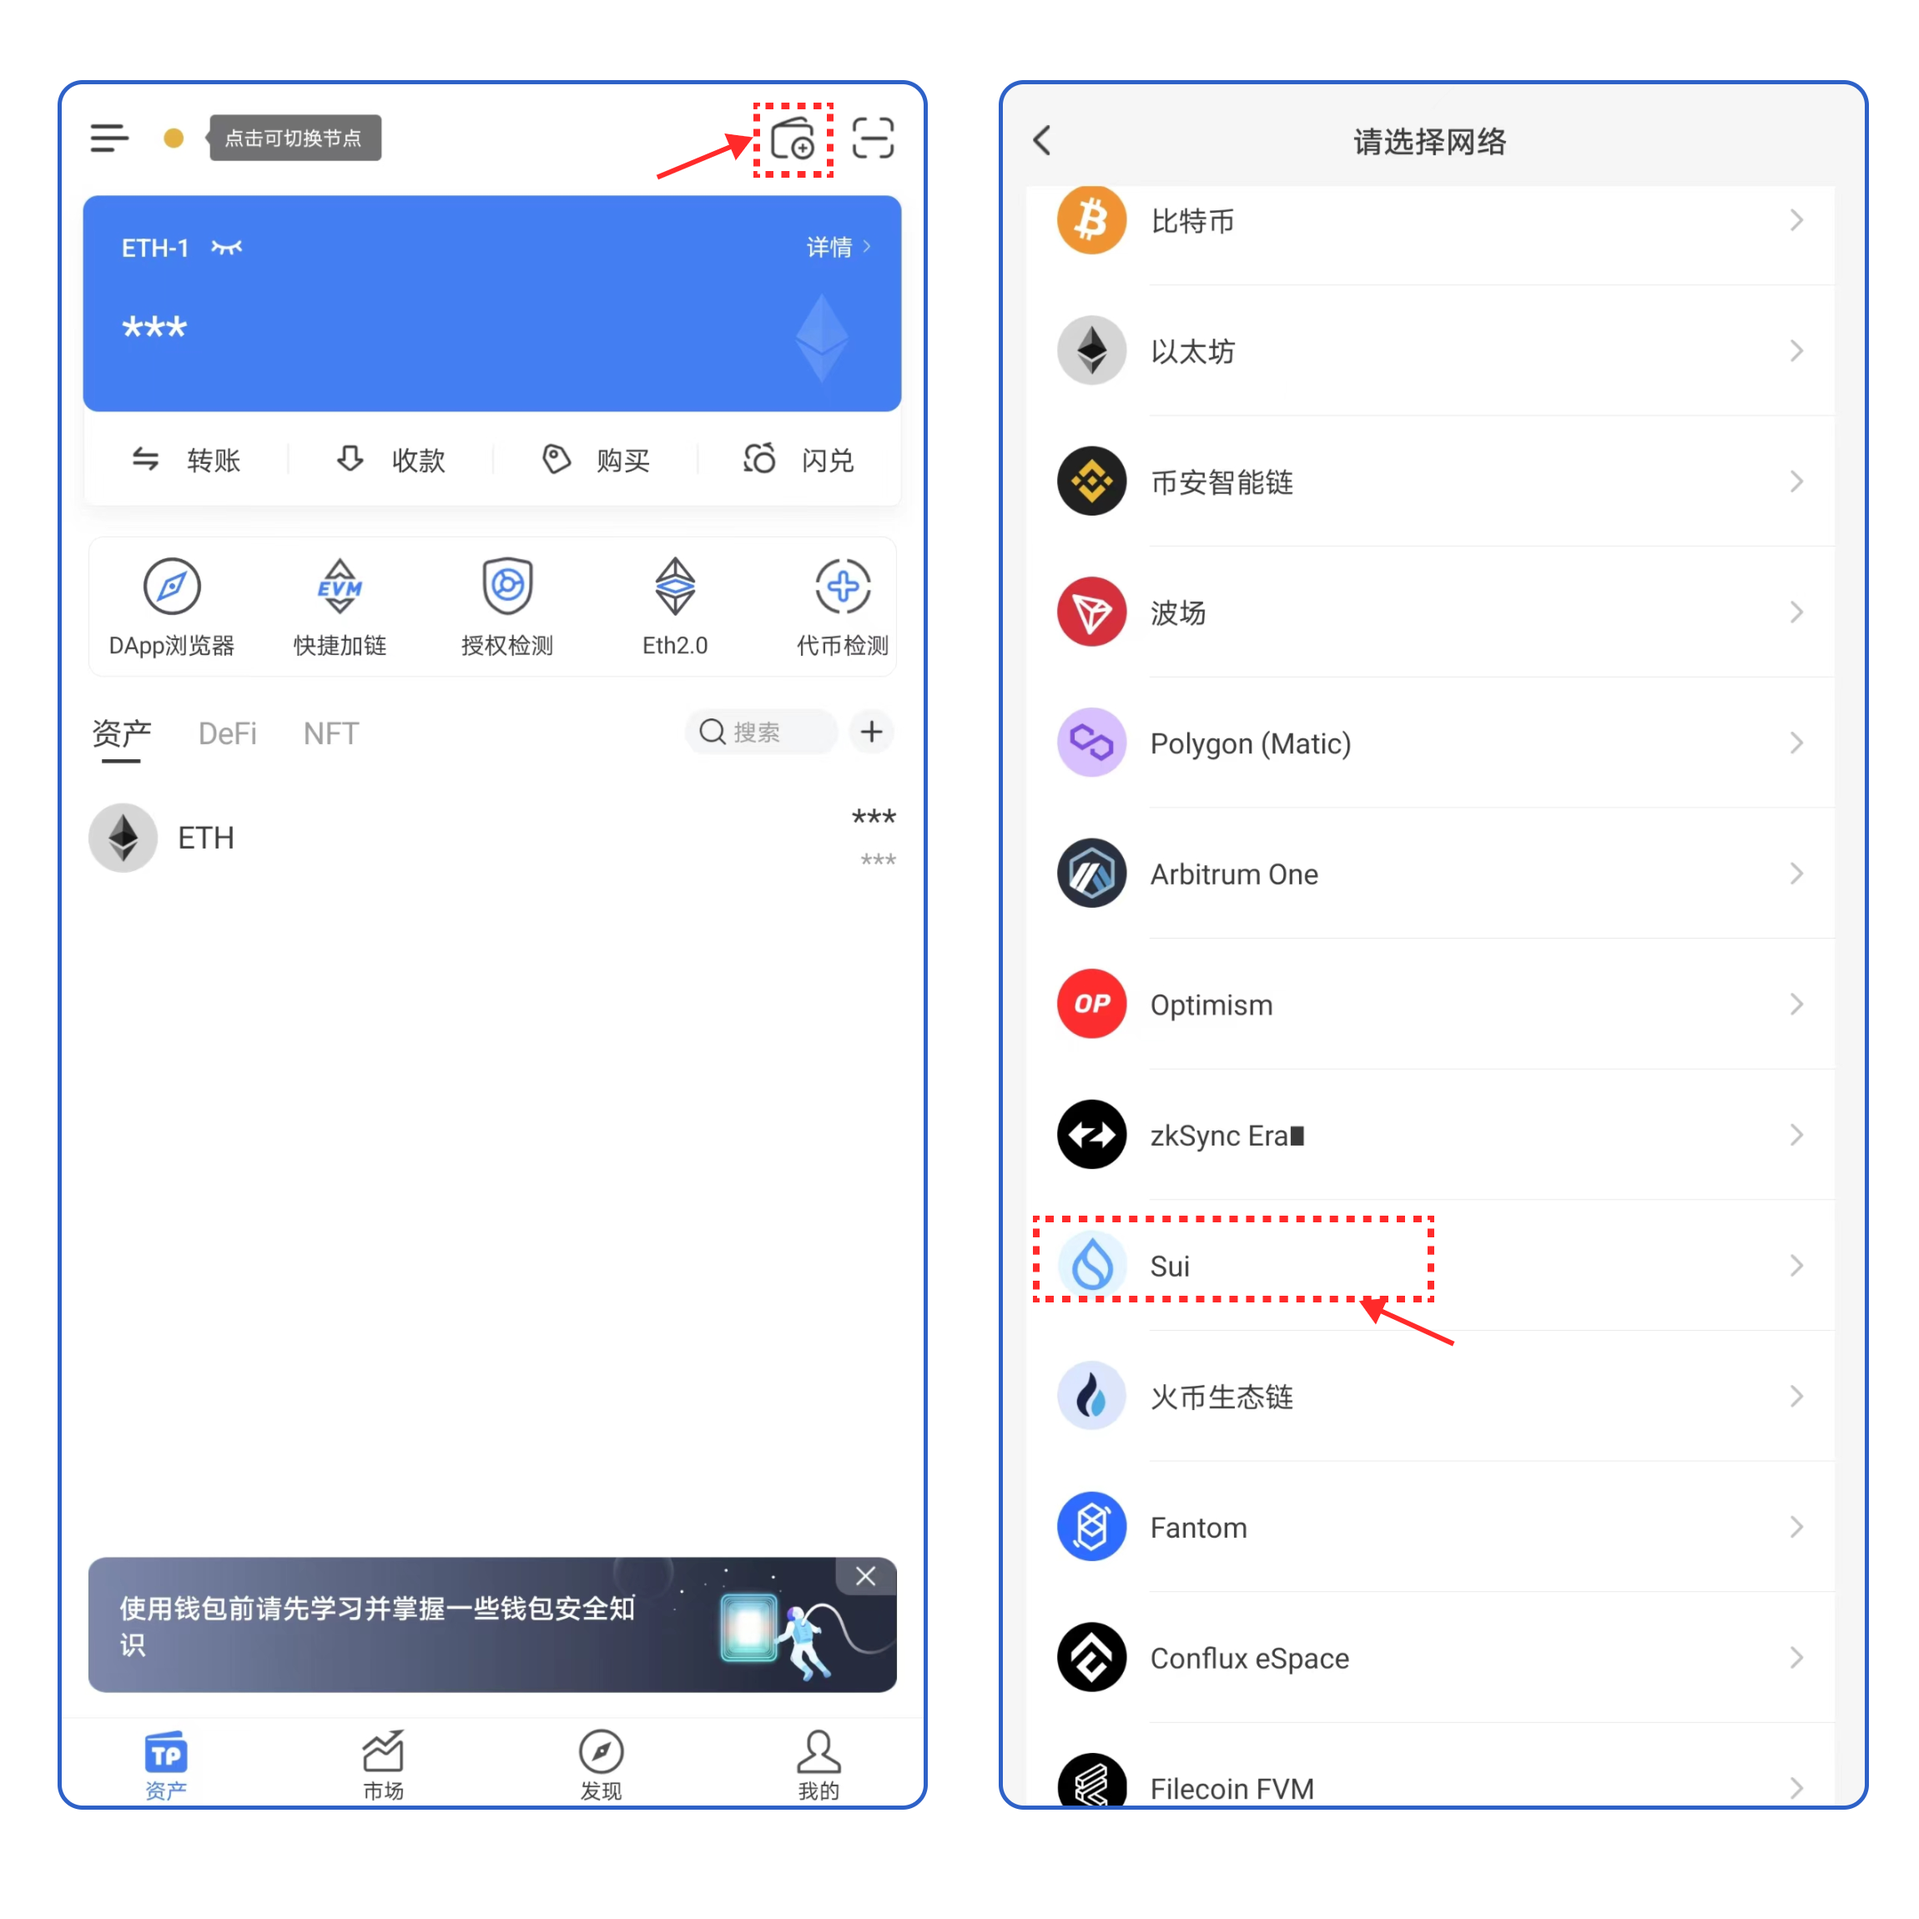
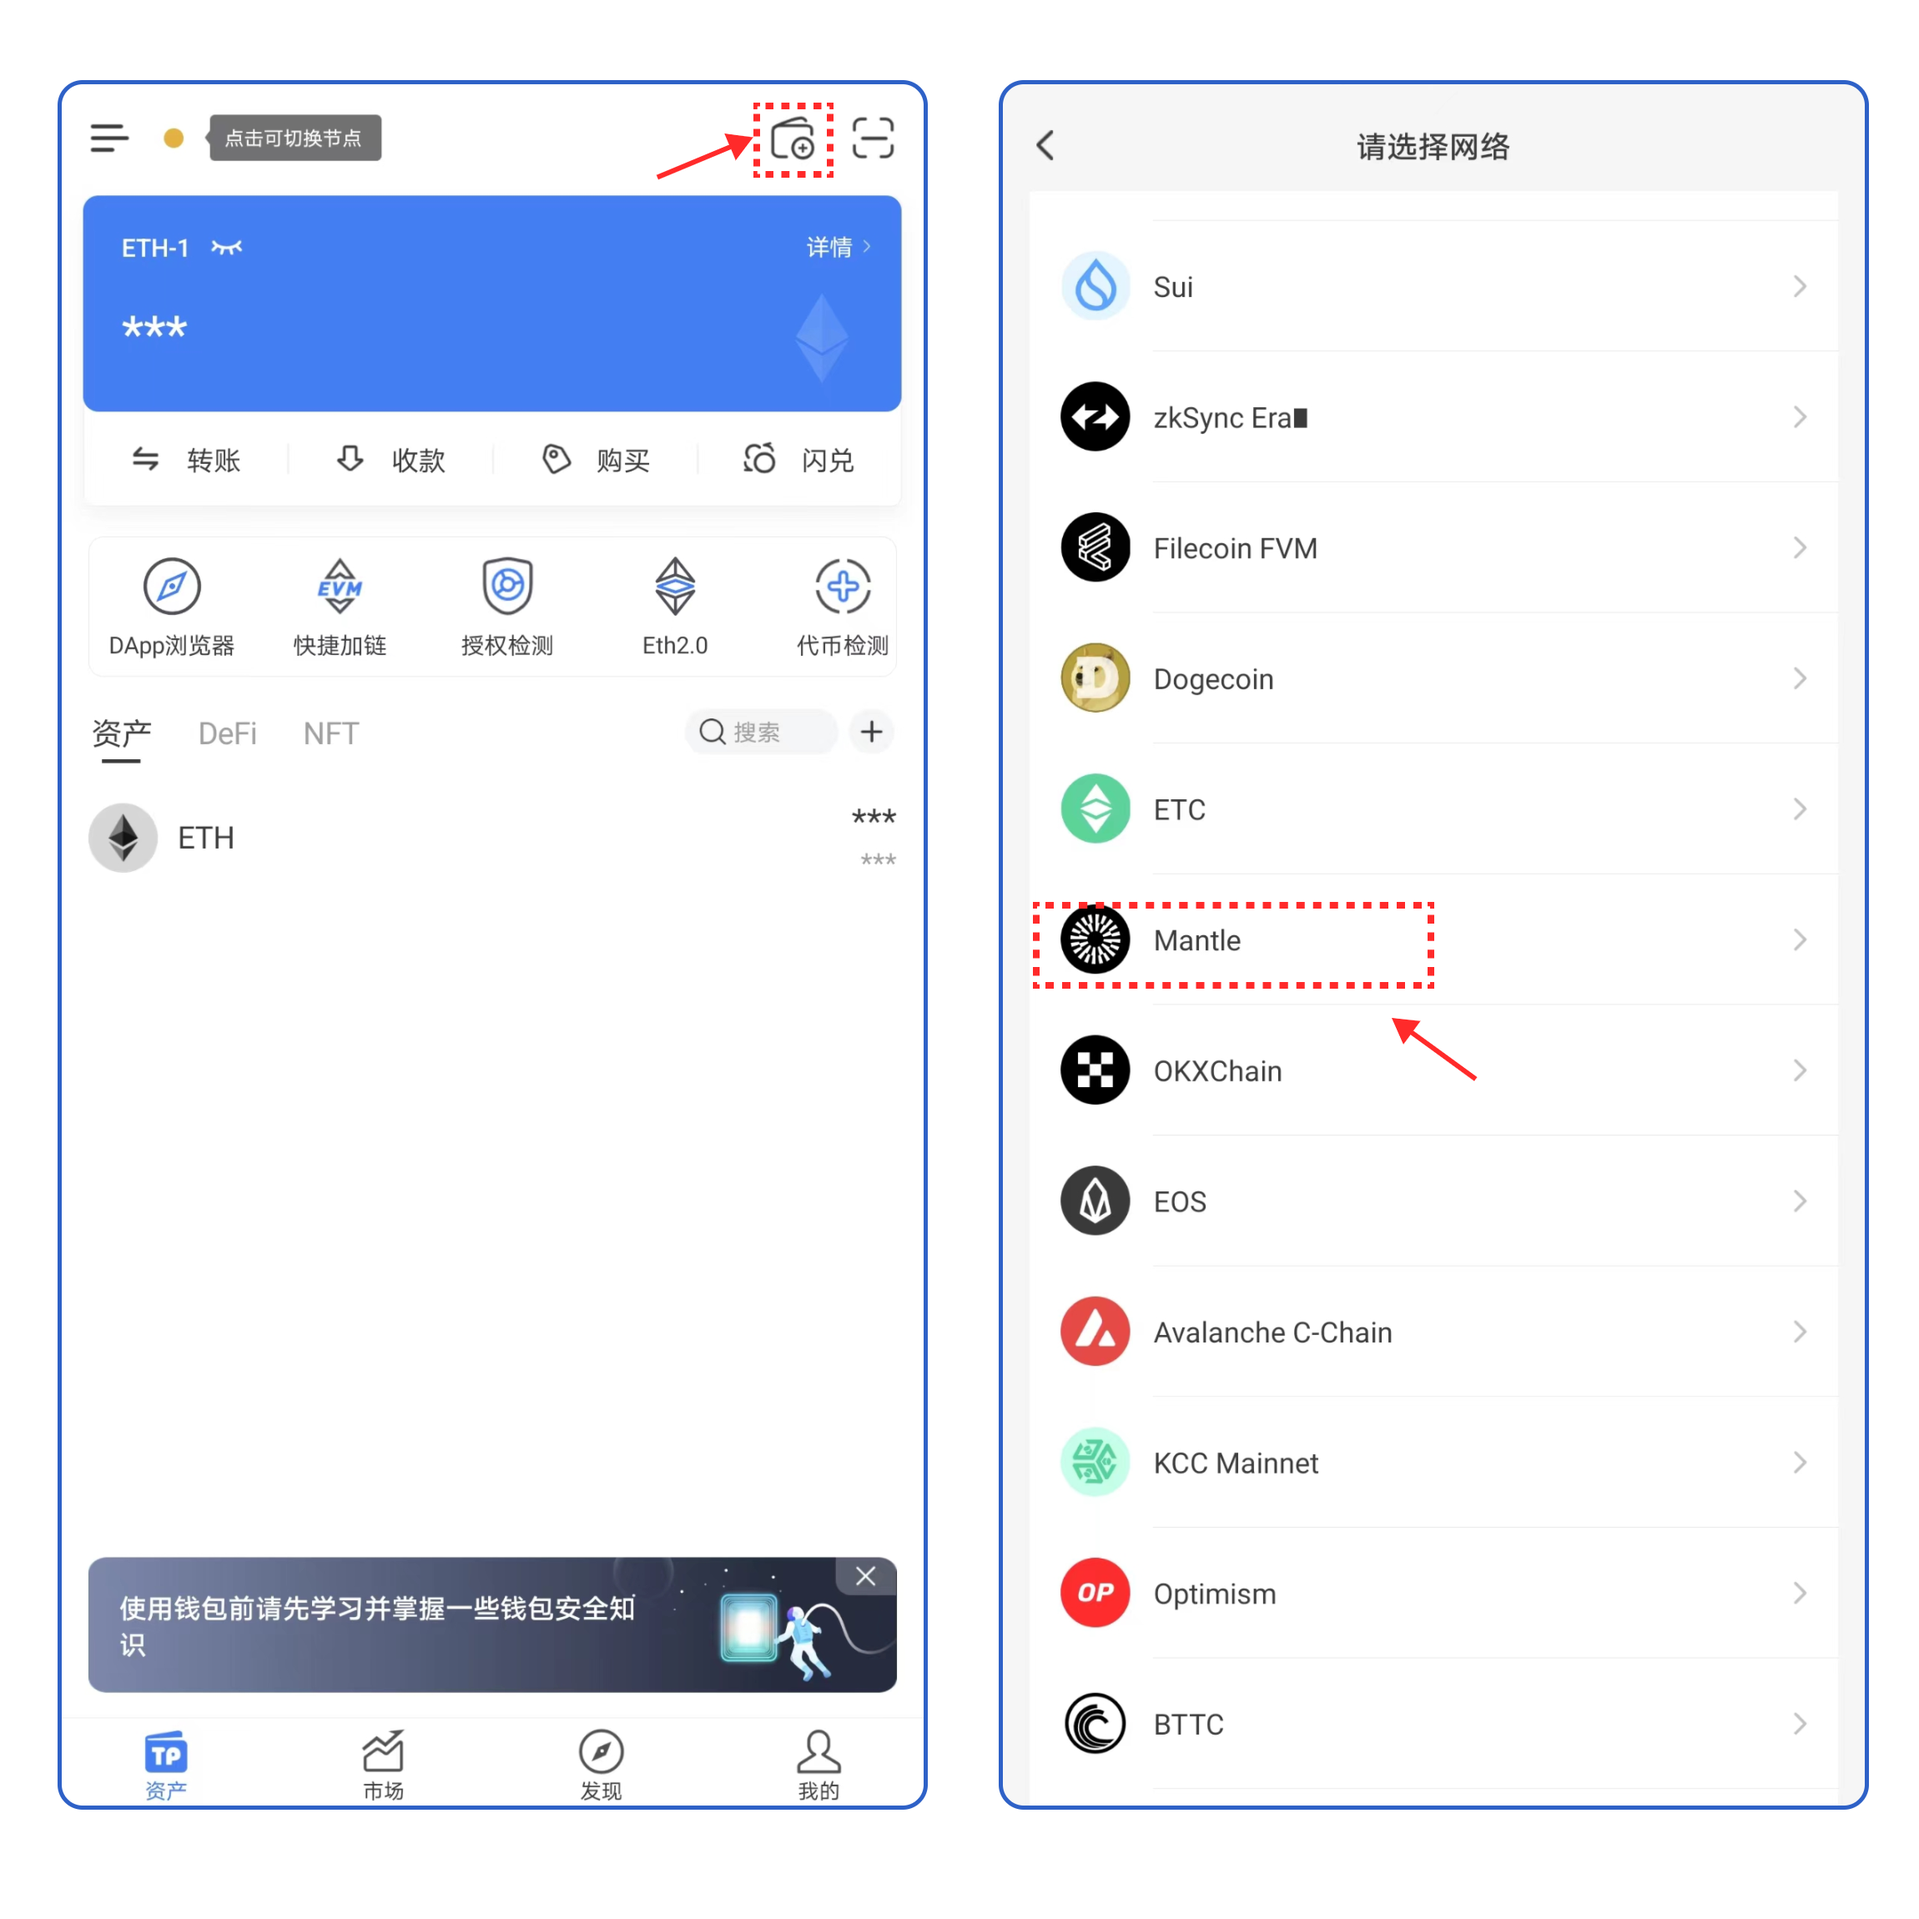
GITBOOK-1342: change request with no subject merged in GitBook

diff --git a/wallet-operation/create-wallet-tutorial/mantle.md b/wallet-operation/create-wallet-tutorial/mantle.md
@@ -1,0 +1,41 @@
+# TokenPocket带您一文玩转Mantle
+
+### <mark style="color:orange;">如何在TokenPocket上创建Mantle钱包？</mark>
+
+1、打开TokenPocket APP，点击右上角![](<../../.gitbook/assets/image (5) (3).png>)，然后选择**Mantle;**
+
+<figure><img src="../../.gitbook/assets/dogecn1.png" alt=""><figcaption></figcaption></figure>
+
+2、点击**【创建钱包】**；继续点击**【创建钱包】**;
+
+<figure><img src="../../.gitbook/assets/组 109.png" alt=""><figcaption></figcaption></figure>
+
+3、依次设置**【钱包名称】**和**【密码】**，然后勾选**【用户协议】**，点击**【创建钱包】**；请认真观看学习视频内容，点击**【我知道了】**；
+
+<figure><img src="../../.gitbook/assets/dogecn3.png" alt=""><figcaption></figcaption></figure>
+
+4、确认了解并勾选选项内容，点击**【下一步】,**然后开始备份助记词，点击**【备份完成，进行验证】**；
+
+<figure><img src="../../.gitbook/assets/image (9).png" alt=""><figcaption></figcaption></figure>
+
+5、按顺序填入备份好的钱包助记词，点击**【确认】**,至此，您已成功创建**Mantle**钱包。
+
+<mark style="color:red;">**注意：请勿将助记词和私钥透露给任何人！**</mark>
+
+<figure><img src="../../.gitbook/assets/dogecn5 (1).png" alt=""><figcaption></figcaption></figure>
+
+### <mark style="color:orange;">**如何在TokenPocket导入Mantle钱包？**</mark>
+
+1、打开TokenPocket App，点击右上角![](<../../.gitbook/assets/image (3).png>)，然后选择**Mantle**;
+
+<figure><img src="../../.gitbook/assets/dogecn1 2.png" alt=""><figcaption></figcaption></figure>
+
+2、点击**【添加钱包】**；点击**【导入钱包】，**选择导入方式；
+
+<figure><img src="../../.gitbook/assets/组 110.png" alt=""><figcaption></figcaption></figure>
+
+3、以助记词导入为例，输入备份的**【助记词】**及**【钱包名称】**、**【密码】**，勾选**【服务及隐私条款】**；点击**【导入钱包】**；至此，你已经成功导入**Mantle**钱包。
+
+<mark style="color:red;">**注意：请勿将助记词和私钥透露给任何人！**</mark>
+
+<figure><img src="../../.gitbook/assets/组 51.png" alt=""><figcaption></figcaption></figure>

diff --git a/wallet-operation/create-wallet-tutorial/sui.md b/wallet-operation/create-wallet-tutorial/sui.md
@@ -4,7 +4,7 @@
 
 1、打开TokenPocket APP，点击右上角![](<../../.gitbook/assets/image (5) (3).png>)，然后选择**Sui;**
 
-<figure><img src="../../.gitbook/assets/dogecn1.png" alt=""><figcaption></figcaption></figure>
+<figure><img src="../../.gitbook/assets/dogecn1 (1).png" alt=""><figcaption></figcaption></figure>
 
 2、点击**【创建钱包】**；继续点击**【创建钱包】**;
 
@@ -12,7 +12,7 @@
 
 3、依次设置**【钱包名称】**和**【密码】**，然后勾选**【用户协议】**，点击**【创建钱包】**；请认真观看学习视频内容，点击**【我知道了】**；
 
-<figure><img src="../../.gitbook/assets/dogecn3.png" alt=""><figcaption></figcaption></figure>
+<figure><img src="../../.gitbook/assets/dogecn3 (1).png" alt=""><figcaption></figcaption></figure>
 
 4、确认了解并勾选选项内容，点击**【下一步】,**然后开始备份助记词，点击**【备份完成，进行验证】**；
 
@@ -28,7 +28,7 @@
 
 1、打开TokenPocket App，点击右上角![](<../../.gitbook/assets/image (3).png>)，然后选择**Sui**;
 
-<figure><img src="../../.gitbook/assets/dogecn1.png" alt=""><figcaption></figcaption></figure>
+<figure><img src="../../.gitbook/assets/dogecn1 (1).png" alt=""><figcaption></figcaption></figure>
 
 2、点击**【添加钱包】**；点击**【导入钱包】，**选择导入方式；
 

diff --git a/SUMMARY.md b/SUMMARY.md
@@ -150,6 +150,7 @@
   * [SushiSwap（OKEX）使用教程](wallet-operation/how-to-trade-on-dex/dex-sushi.md)
 * [创建钱包教程](wallet-operation/create-wallet-tutorial/README.md)
   * [如何批量创建子钱包](wallet-operation/create-wallet-tutorial/batch.md)
+  * [TokenPocket带您一文玩转Mantle](wallet-operation/create-wallet-tutorial/mantle.md)
   * [TokenPocket带您一文玩转Sui](wallet-operation/create-wallet-tutorial/sui.md)
   * [TokenPocket带您一文玩转PulseChain](wallet-operation/create-wallet-tutorial/pulsechain.md)
   * [TokenPocket带您一文玩转EOS EVM](wallet-operation/create-wallet-tutorial/eos-evm.md)
